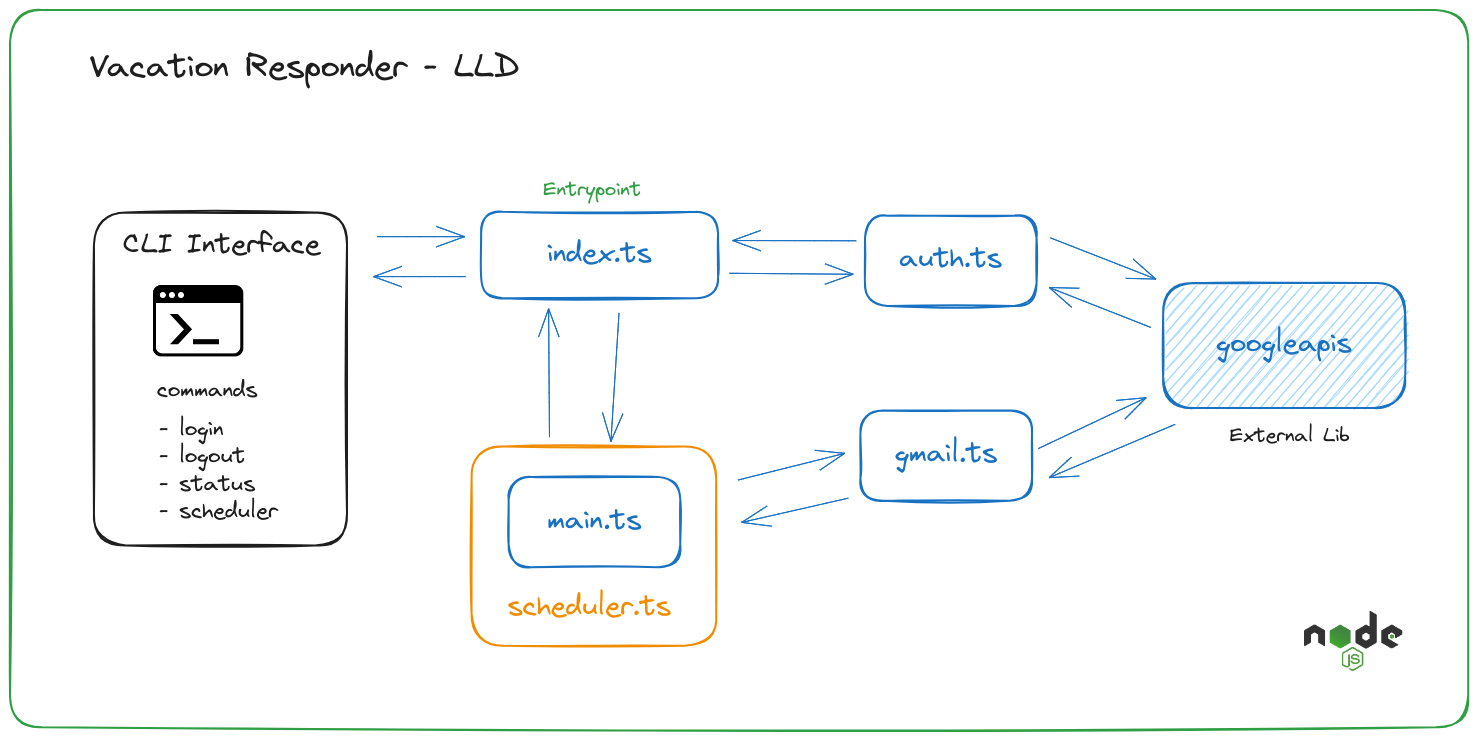
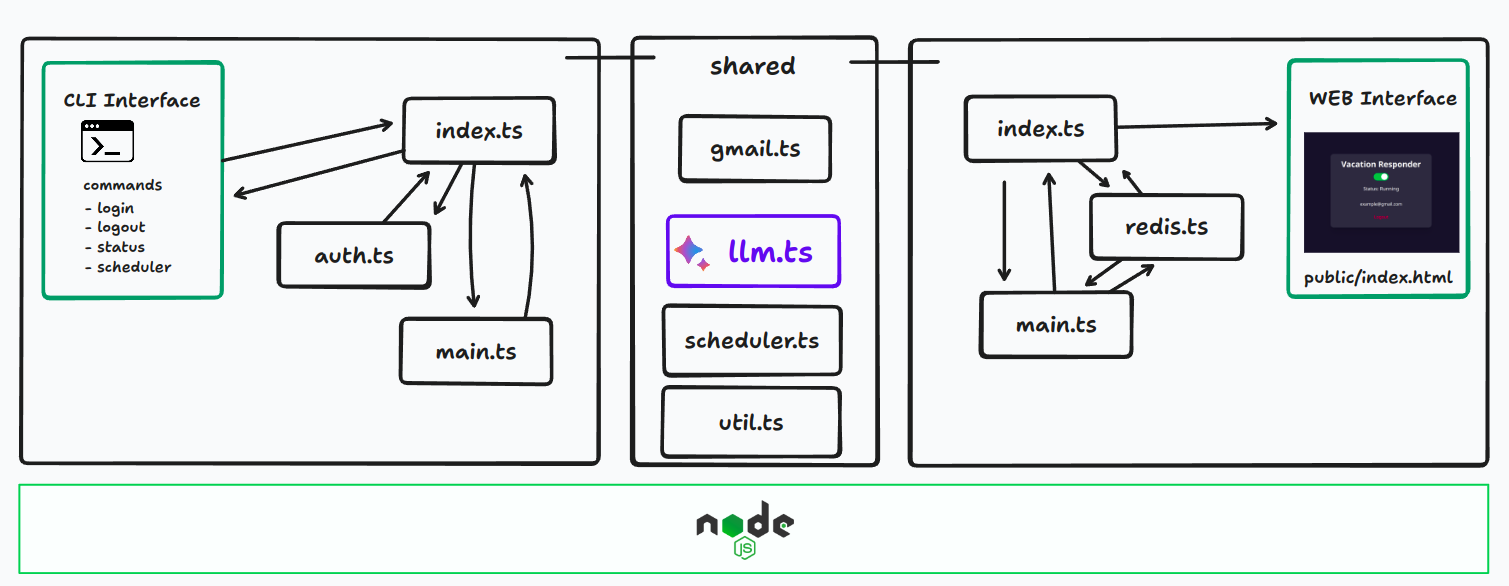
docs:update file structure diagram (lld)

diff --git a/README.md b/README.md
@@ -8,11 +8,19 @@ Vacation-Responder is an intelligent Node.js-based command-line application desi
 
 A go-to solution for professionals seeking a seamless, organized, and automated approach to manage their email correspondence during their absence, providing peace of mind and professionalism in communication.
 
-## Low Level Design (LLD)
+## File Structure Diagram
 
-![System Arch Visual Explanation](/LLD.png?raw=true 'LLD')
+![File Structure Diagram](/LLD.png?raw=true 'LLD')
 
-## Usage
+## Usage : Web Interface
+
+```bash
+Usage: pnpm run server
+```
+
+This will start a server on http://localhost:3000
+
+## Usage : Command Line Interface (CLI)
 
 ```bash
 Usage: pnpm run cli [command]
@@ -31,7 +39,7 @@ Commands:
 
 ```
 
-# Getting Started (Installation)
+## Getting Started (Installation)
 
 ## Prerequisites:
 
